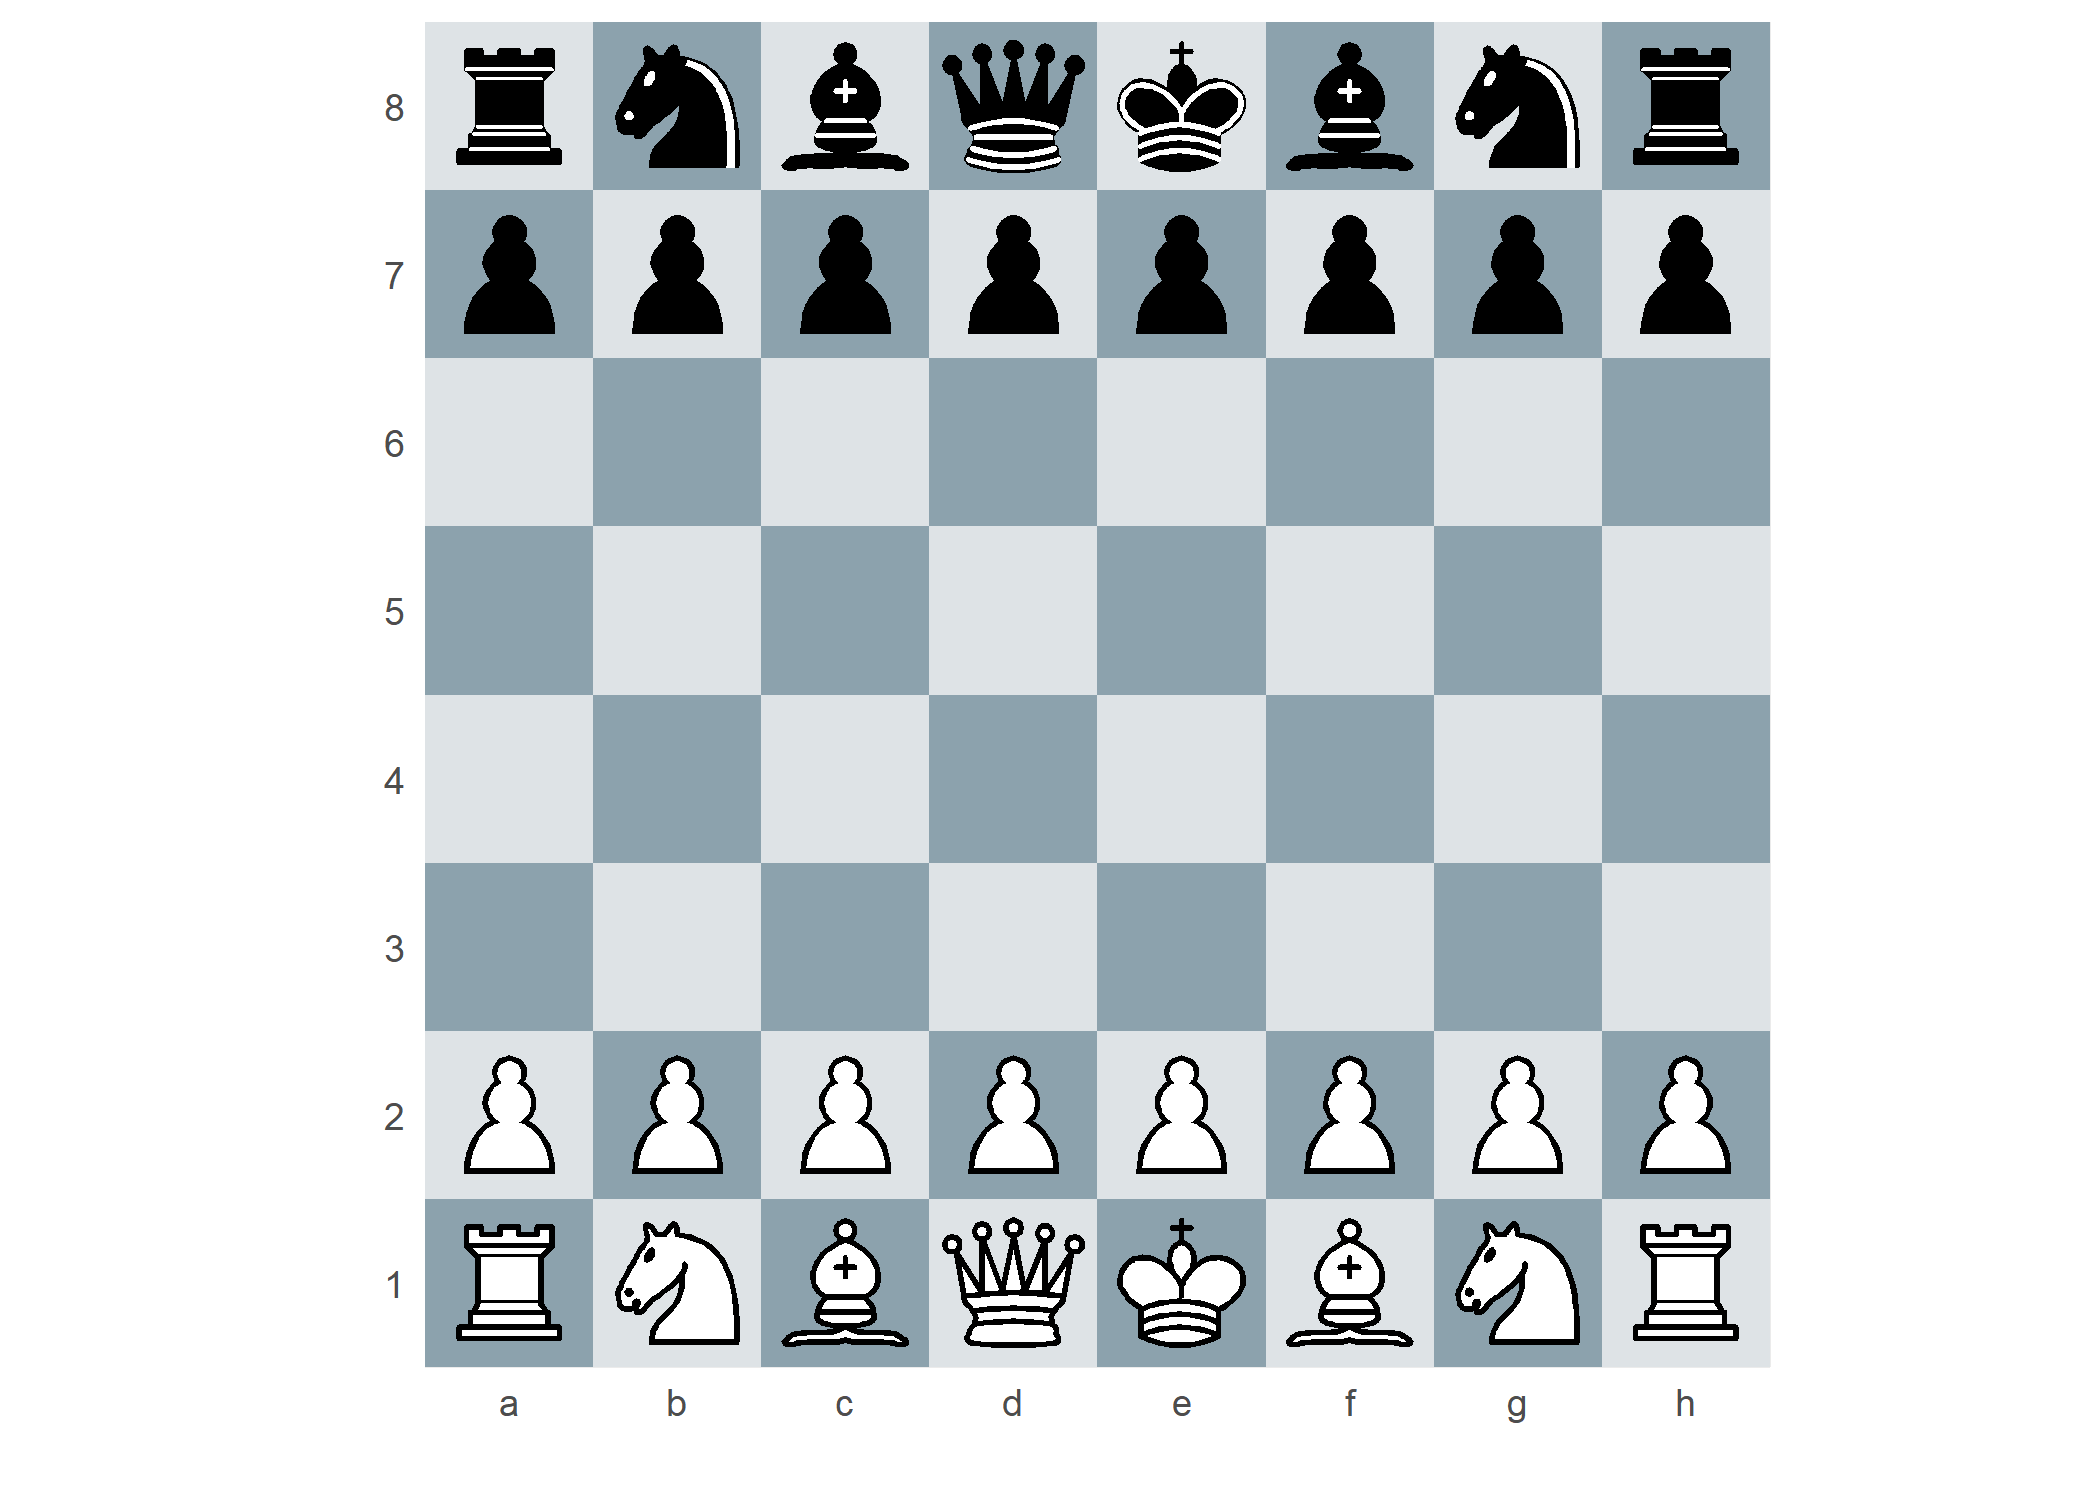
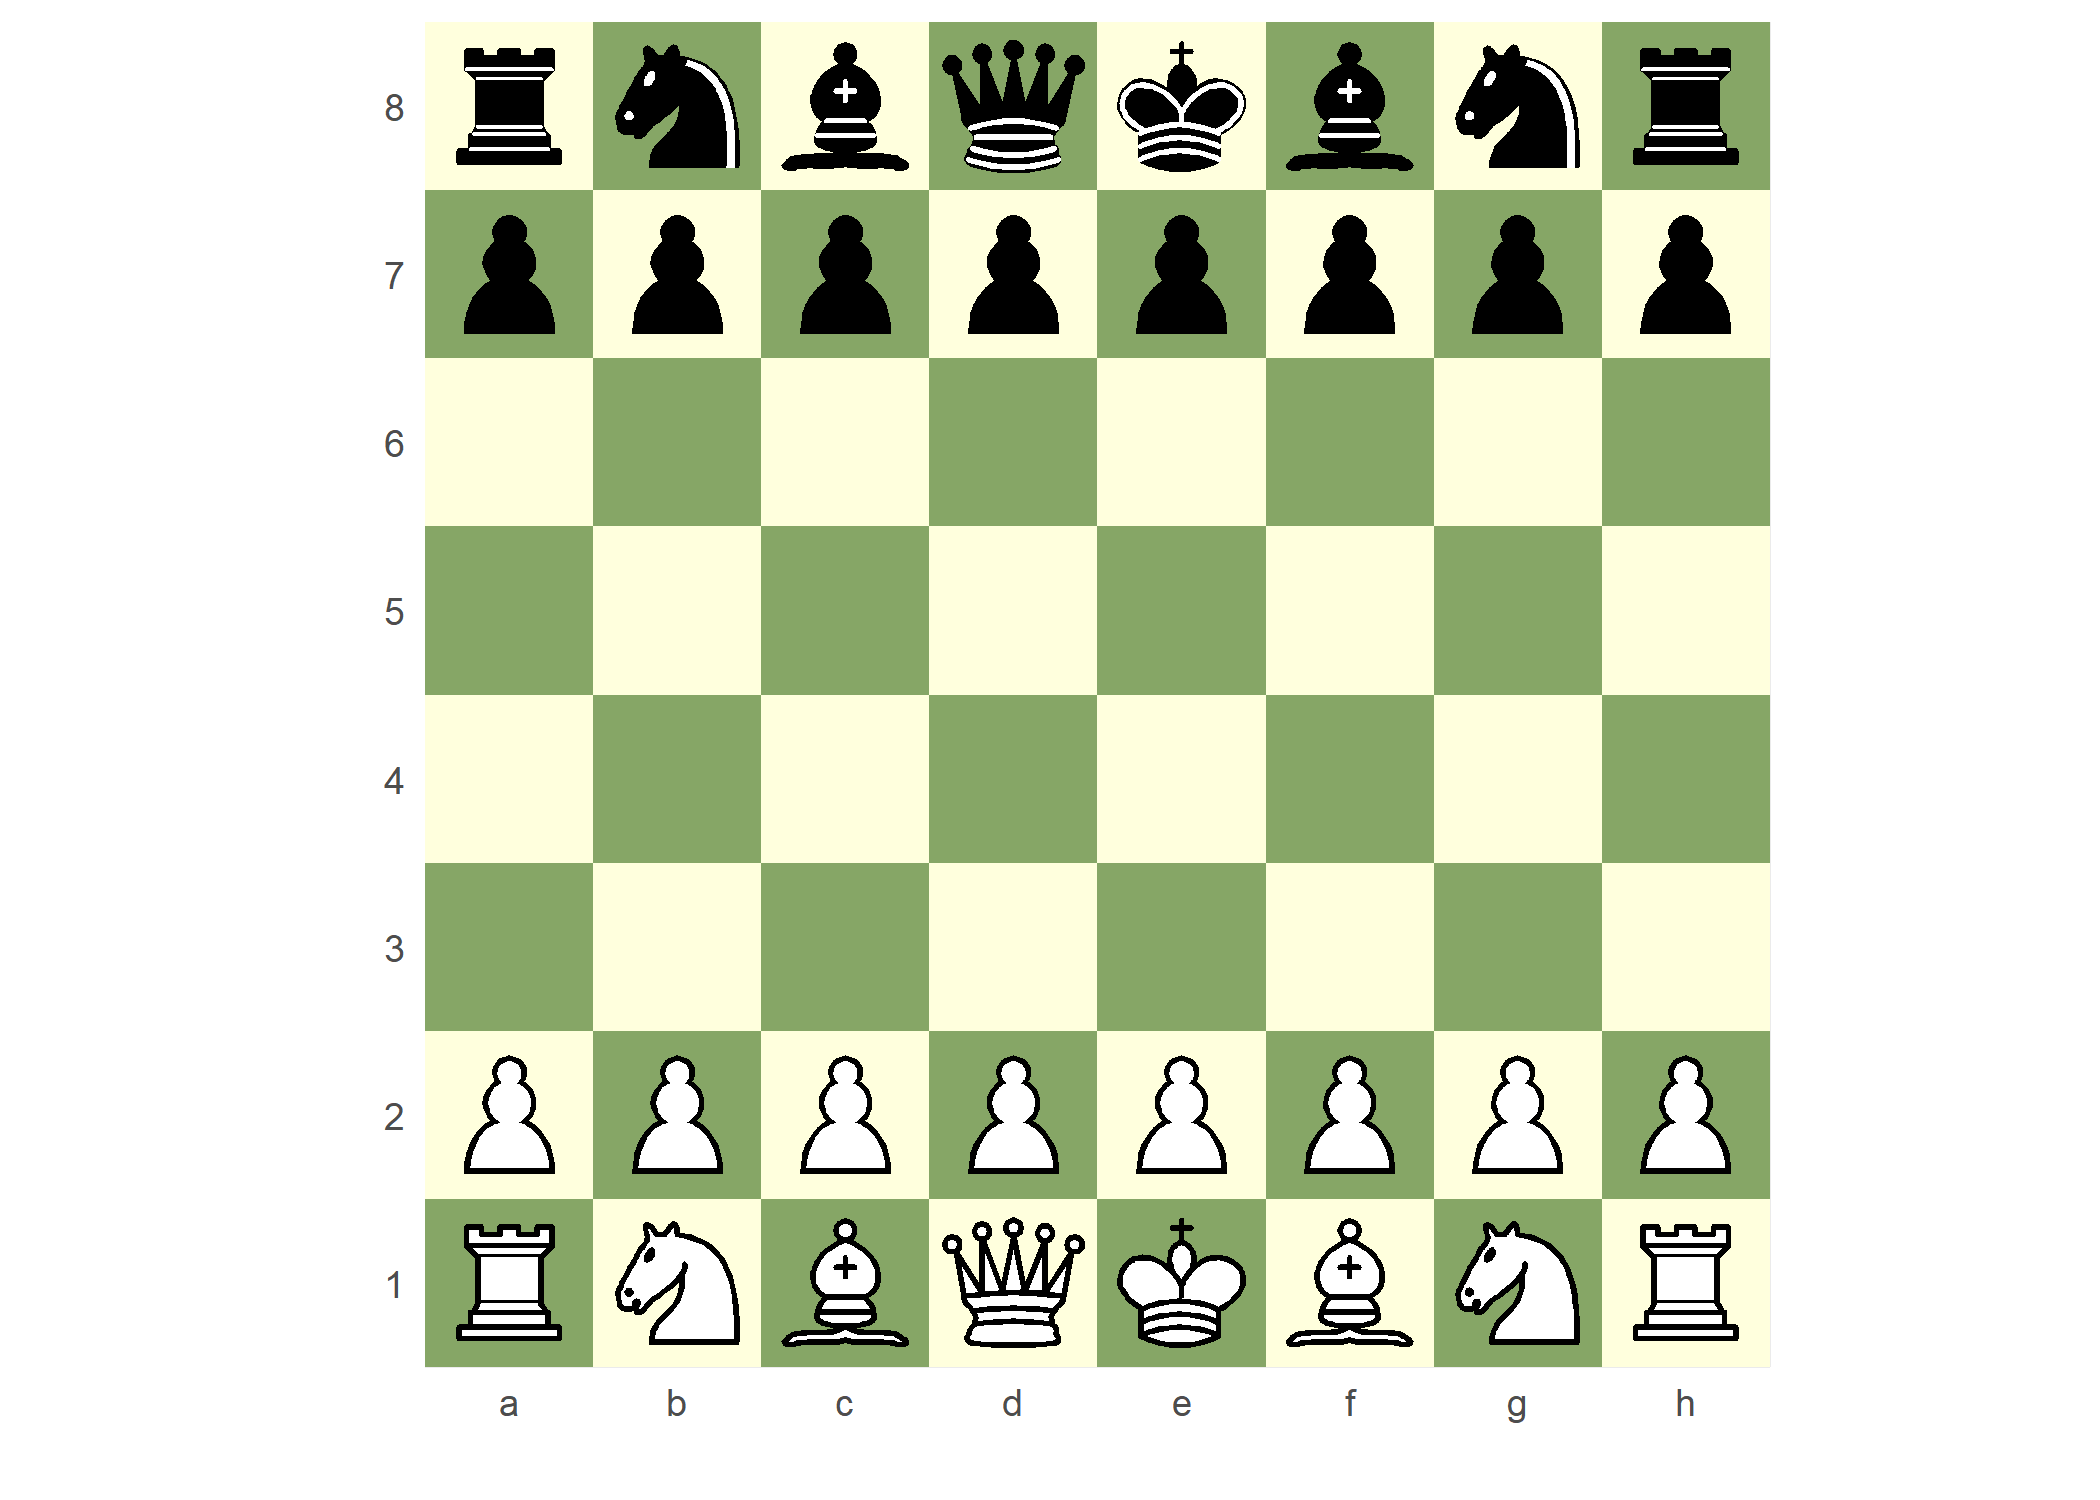
Add a newspaper style plot option and redocument. Also update readme

diff --git a/README.md b/README.md
@@ -106,13 +106,20 @@ plot_fen("8/8/8/8/8/8/8/8 w KQkq - 0 1")
 <img src="man/figures/README-unnamed-chunk-9-1.png" width="70%" />
 
 Square fill colours can be specified with the `cols` argument. See
-`plot_fen()` documentation for more details
+`plot_fen()` documentation for more details. An attempt at newspaper
+style can be set using `cols = "news"`
 
 ``` r
-plot_fen(cols = "blue")
+plot_fen(cols = "green")
 ```
 
 <img src="man/figures/README-unnamed-chunk-10-1.png" width="70%" />
+
+``` r
+plot_fen(cols = "news")
+```
+
+<img src="man/figures/README-unnamed-chunk-10-2.png" width="70%" />
 
 Remove/add FEN notation caption and board coordinates with the
 `show_coords` and `show_fen` arguments to `plot_fen()`
